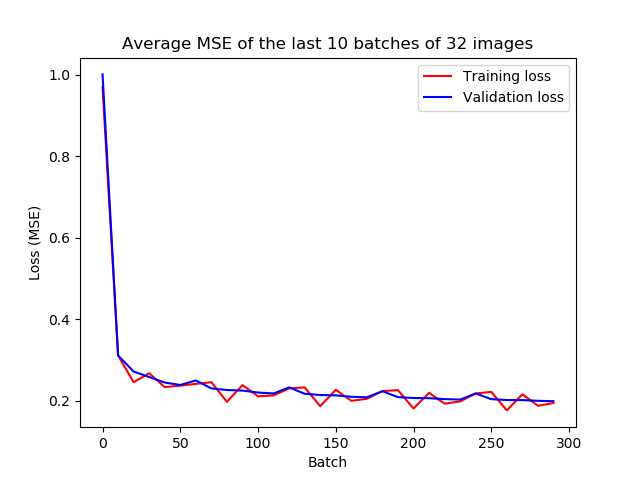
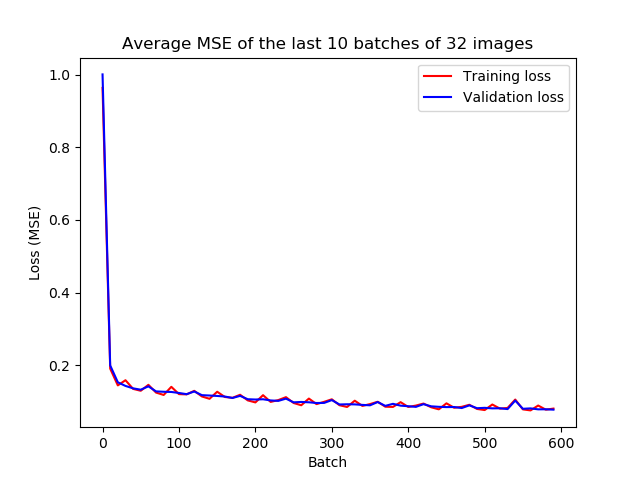
Partitioned autoencoder into two parts

diff --git a/autoencoder/autoencoder_dense.py b/autoencoder/autoencoder_dense.py
@@ -26,17 +26,47 @@ from PIL import Image
 import matplotlib.pyplot as plt
 
 
+class EncoderDense(nn.Module):
+
+    def __init__(self, n_latent_dims, device: str):
+        super(EncoderDense, self).__init__()
+        self.device = device
+
+        self.dense_1 = nn.Linear(28 * 28, 256)
+        self.dense_2 = nn.Linear(256, n_latent_dims)
+
+    def forward(self, x: torch.Tensor) -> torch.Tensor:
+        x = func.leaky_relu(self.dense_1(x))
+        x = func.leaky_relu(self.dense_2(x))
+        
+        return x
+
+
+class DecoderDense(nn.Module):
+    def __init__(self, n_latent_dims: int, device: str):
+        super(DecoderDense, self).__init__()
+        self.device = device
+
+        self.dense_1 = nn.Linear(n_latent_dims, 256)
+        self.dense_2 = nn.Linear(256, 28 * 28)
+
+
+    def forward(self, x: torch.Tensor) -> torch.Tensor:
+        x = func.leaky_relu(self.dense_1(x))
+        x = self.dense_2(x)
+
+        return x
+
+
 class AutoencoderDense(nn.Module):
     """An autoencoder that only uses fully connected layers."""
 
-    def __init__(self, num_latent_dims: int, device: str):
+    def __init__(self, n_latent_dims: int, device: str):
         super(AutoencoderDense, self).__init__()
         self.device = device
         
-        self.encode_1 = nn.Linear(28 * 28, 256)
-        self.encode_2 = nn.Linear(256, num_latent_dims)
-        self.decode_1 = nn.Linear(num_latent_dims, 256)
-        self.decode_2 = nn.Linear(256, 28 * 28)
+        self.encoder = EncoderDense(n_latent_dims, device)
+        self.decoder = DecoderDense(n_latent_dims, device)
 
 
     def _flatten(self, x: torch.Tensor):
@@ -45,10 +75,8 @@ class AutoencoderDense(nn.Module):
 
     def forward(self, x: torch.Tensor):
         x = self._flatten(x)
-        x = func.relu(self.encode_1(x))
-        x = func.relu(self.encode_2(x))
-        x = func.relu(self.decode_1(x))
-        x = self.decode_2(x)
+        x = self.encoder(x)
+        x = self.decoder(x)
         
         return x
 
@@ -96,6 +124,17 @@ def train(
     else:
         draw_losses(avg_train_losses, n_batches_till_test, os.path.join('autoencoder', 'losses.png'), val_losses = avg_test_losses)
 
+    with torch.no_grad():
+        for test_batch_X, _ in test_data:
+            test_batch_X = test_batch_X.to(device)
+            test_batch_X = test_batch_X.view(-1, 28 * 28)
+            pred_X = model(test_batch_X)
+            save_from_flat_tensor(test_batch_X[28], 'ground.png')
+            save_from_flat_tensor(pred_X[28], 'pred.png')
+
+            break
+
+
     if save:
         pass
 
@@ -115,18 +154,18 @@ def validate(model: nn.Module, test_data: DataLoader, loss_fn: Callable, device:
 
 
 def draw_losses(train_losses: List[float], interval_size: int, save_path: str, val_losses: List[float] = None) -> None:
-        assert len(train_losses) == len(val_losses)
-        batches = [0]
-        while len(batches) != len(train_losses):
-            batches.append(batches[len(batches) - 1] + interval_size)
-                
-        plt.plot(batches, train_losses, 'r-', label = 'Training loss')
-        plt.plot(batches, val_losses, 'b-', label = 'Validation loss')
-        plt.title(f'Average MSE of the last {interval_size} batches of {BATCH_SIZE} images')
-        plt.xlabel('Batch')
-        plt.ylabel('Loss (MSE)')
-        plt.legend(loc = 'upper right')
-        plt.savefig(save_path)
+    assert len(train_losses) == len(val_losses)
+    batches = [0]
+    while len(batches) != len(train_losses):
+        batches.append(batches[len(batches) - 1] + interval_size)
+            
+    plt.plot(batches, train_losses, 'r-', label = 'Training loss')
+    plt.plot(batches, val_losses, 'b-', label = 'Validation loss')
+    plt.title(f'Average MSE of the last {interval_size} batches of {BATCH_SIZE} images')
+    plt.xlabel('Batch')
+    plt.ylabel('Loss (MSE)')
+    plt.legend(loc = 'upper right')
+    plt.savefig(save_path)
 
 
 def get_device() -> str:
@@ -141,16 +180,21 @@ def get_device() -> str:
     return device
 
 
-def reconstruct_from_flat_img(flat_img: torch.Tensor):
-    pass
-
+def save_from_flat_tensor(flat_img: torch.Tensor, name: str) -> torch.Tensor:
+    img = flat_img.view(28, 28)
+    img *= MNIST_STD
+    img += MNIST_MEAN
+    img *= 255
+    img = img.type(torch.uint8)
+    print(img)
+    plt.imsave(os.path.join(name), np.array(img.cpu()), cmap = 'Greys')
 
 def main():
     device = get_device()
 
     normalize = transforms.Compose([
         transforms.ToTensor(),
-        transforms.Normalize([0.1307], [0.3081]) # Over all of the dataset
+        transforms.Normalize([MNIST_MEAN], [MNIST_STD]) # Over all of the dataset
     ])
     train_data = torchvision.datasets.MNIST(os.path.join('.', 'data'), train = True, download = True, transform = normalize)
     train_loader = DataLoader(train_data, batch_size = BATCH_SIZE)
@@ -158,8 +202,9 @@ def main():
     test_data = torchvision.datasets.MNIST(os.path.join('.', 'data'), train = False, download = True, transform = normalize)
     test_loader = DataLoader(test_data, batch_size = int(len(test_data) / 2))
 
-    model = AutoencoderDense(16, device)
-    train(model, train_loader, device, test_data = test_loader)
+    model = AutoencoderDense(64, device)
+    print(list(model.children()))
+    train(model, train_loader, device, test_data = test_loader, n_epochs = 10)
 
 
 if __name__ == '__main__':

diff --git a/util/training.py b/util/training.py
@@ -1,0 +1,98 @@
+def train(
+    model: nn.Module, 
+    train_data: DataLoader,
+    device: str,
+    test_data: DataLoader = None,
+    n_epochs: int = 5, 
+    lr: float = 0.001,
+    n_batches_till_test: int = 10,
+    save: bool = False
+):
+    """The function that trains a model.
+
+    Args
+    ----
+        model (nn.Module): The model.
+        train_data (DataLoader): The data as PyTorch DataLoader.
+        device (str): The device.
+        test_data (DataLoader, optional): The validation data as PyTorch DataLoader. Defaults to None.
+        n_epochs (int, optional): Number of epochs. Defaults to 5.
+        lr (float, optional): Learning rate. Defaults to 0.001.
+        n_batches_till_test (int, optional): Controls at what interval of batches the test data is run. Defaults to 10.
+        save (bool, optional): Whether the model should be saved after training. Defaults to False.
+    """
+
+    model.to(device)
+    optimizer = torch.optim.Adam(model.parameters(), lr = lr)
+    loss_fn = nn.MSELoss() # Measures squared difference between each element of the prediction and ground truth.
+    avg_test_losses = []
+    avg_train_losses = []
+
+    for epoch in range(n_epochs):
+        print(f'Running epoch {epoch + 1} of {n_epochs}.')
+        for batch_idx, (train_batch_X, _) in tqdm(enumerate(train_data)):
+            batch_train_losses = []
+            train_batch_X = train_batch_X.to(device)
+            train_batch_X = train_batch_X.view(-1, 28 * 28)
+
+            model.zero_grad()
+            pred_X = model(train_batch_X)
+            loss = loss_fn(pred_X, train_batch_X)
+            loss.backward()
+            optimizer.step()
+            batch_train_losses.append(loss.item())
+
+            if batch_idx % (BATCH_SIZE * n_batches_till_test) == 0:
+                if test_data is not None:
+                    test_loss = validate(model, test_data, loss_fn, device)
+                    avg_test_losses.append(test_loss)
+
+                avg_train_losses.append(np.mean(np.array(batch_train_losses)))                
+                batch_train_losses.clear()
+    
+    if test_data is not None:
+        draw_losses(avg_train_losses, n_batches_till_test, os.path.join('autoencoder', 'losses.png'), val_losses = avg_test_losses)
+    else:
+        draw_losses(avg_train_losses, n_batches_till_test, os.path.join('autoencoder', 'losses.png'), val_losses = avg_test_losses)
+
+    with torch.no_grad():
+        for test_batch_X, _ in test_data:
+            test_batch_X = test_batch_X.to(device)
+            test_batch_X = test_batch_X.view(-1, 28 * 28)
+            pred_X = model(test_batch_X)
+            save_from_flat_tensor(test_batch_X[28], 'ground.png')
+            save_from_flat_tensor(pred_X[28], 'pred.png')
+
+            break
+
+
+    if save:
+        pass
+
+
+def validate(model: nn.Module, test_data: DataLoader, loss_fn: Callable, device: str) -> float:
+    """Runs the validation data and returns the average loss.
+
+    Args
+    ----
+        model (nn.Module): The model on which the data will be tested.
+        test_data (DataLoader): Validation data as PyTorch DataLoader.
+        loss_fn (Callable): The loss function.
+        device (str): The device.
+
+    Returns
+    -------
+        float: The average loss value.
+    """
+
+    test_losses = []
+    with torch.no_grad():
+        for test_batch_X, _ in test_data:
+            test_batch_X = test_batch_X.to(device)
+            test_batch_X = test_batch_X.view(-1, 28 * 28)
+
+            pred_X = model(test_batch_X)
+            loss = loss_fn(pred_X, test_batch_X)
+            test_losses.append(loss.item())
+
+    return np.mean(np.array(test_losses))

diff --git a/autoencoder/autoencoder_dense_denoising.py b/autoencoder/autoencoder_dense_denoising.py
@@ -1,0 +1,1 @@
+# Idee, genoiste sind X, ungenoiste sind Y, gleiche Transformationen + Noising

diff --git a/util/__init__.py b/util/__init__.py
@@ -1,0 +1,1 @@
+"""Contains all reusable functions and classes."""
